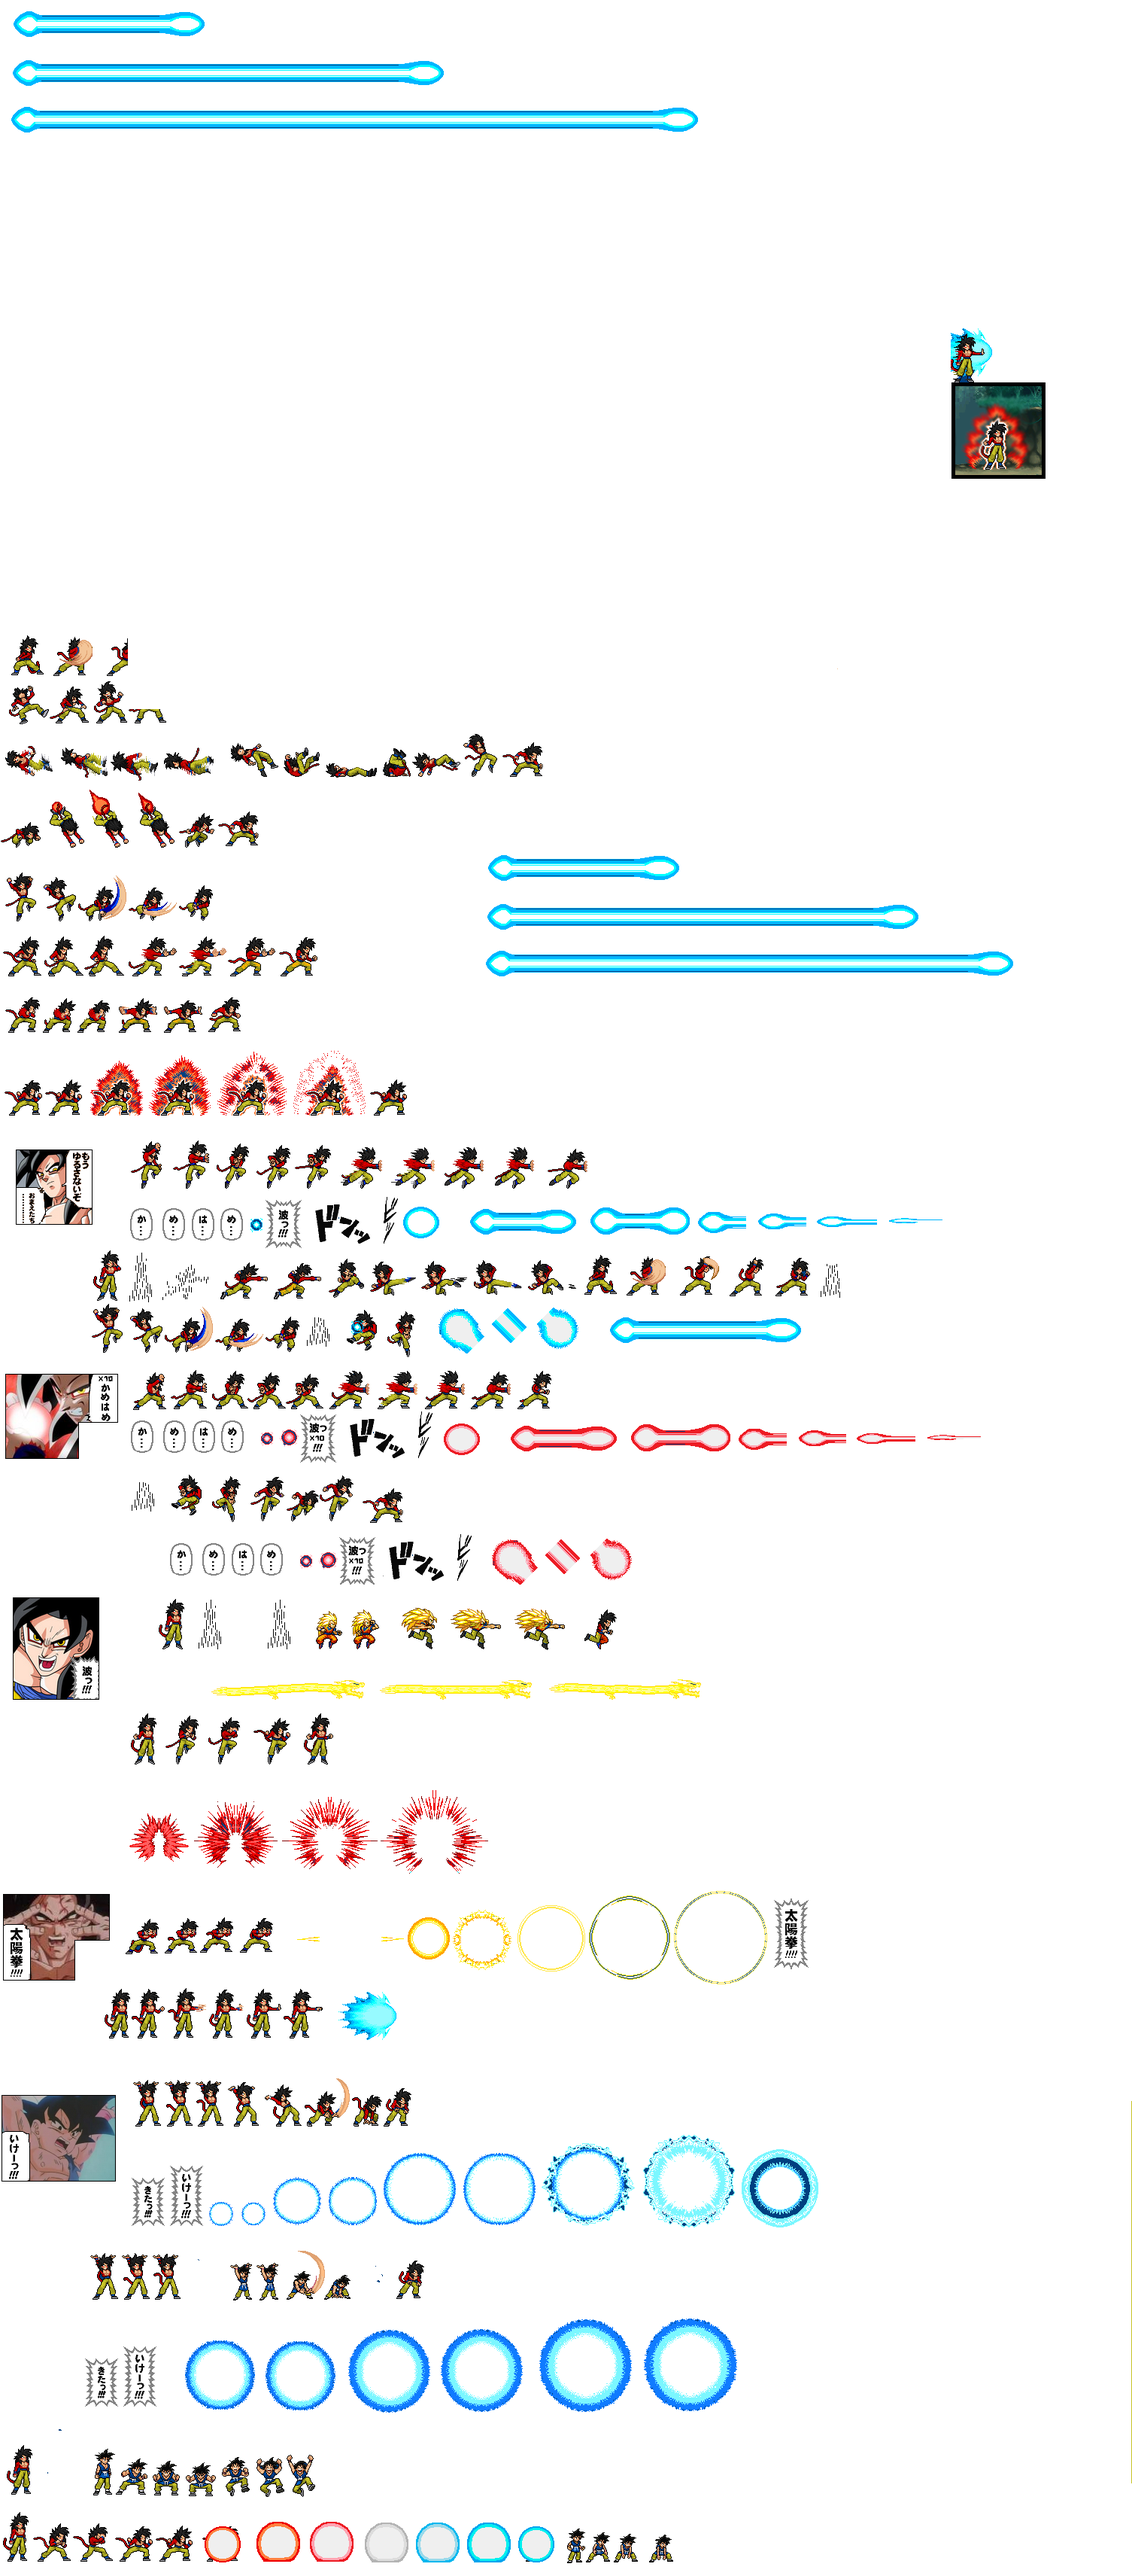
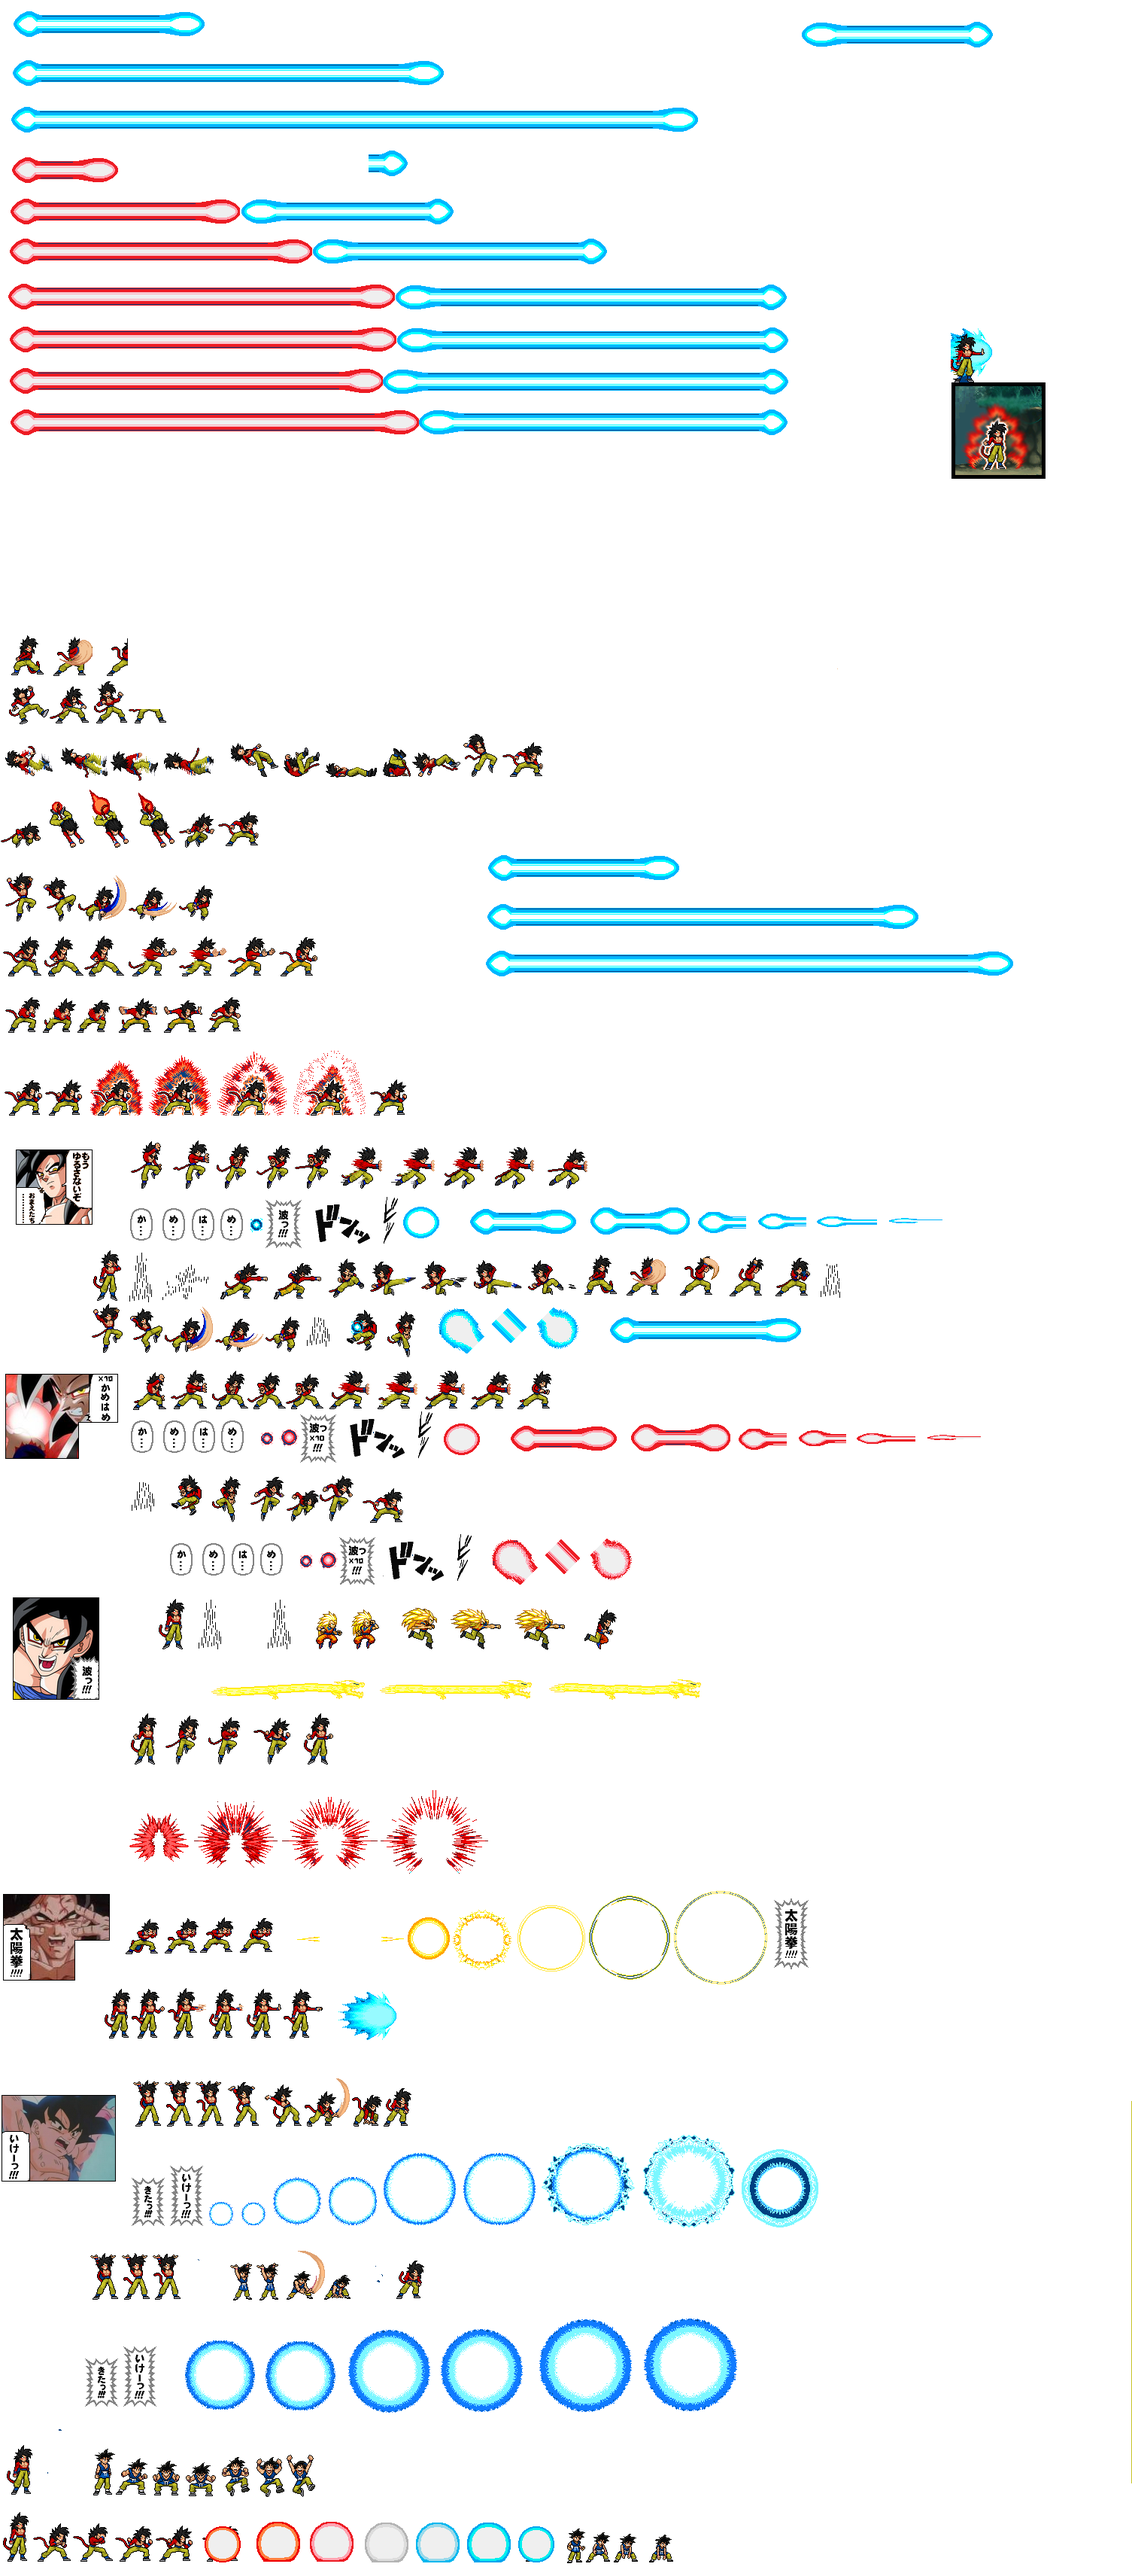
Adding teleport and kameham dispute

Changed region(s): [[0.0, 0.062, 0.687, 0.1859], [0.7183, 0.0, 0.8744, 0.031]]

diff --git a/src/player.py b/src/player.py
@@ -33,10 +33,12 @@ class Player(SpriteAnimation):
         self.hitDefended = 0.4
         self.powerDamage = 10
         self.powerDamageDefended = 2
+        self.comboDamage = 10
         self.HP = 140
         self.XP = 50
         self.playerId = playerId
         self.loading = False
+        self.powerDisputa = True
         if self.playerId == 1:
             self.k_down = K_s
             self.k_up = K_w
@@ -48,6 +50,8 @@ class Player(SpriteAnimation):
             self.k_rightArrow = K_d
             self.k_leftArrow = K_a
             self.k_combo = K_c
+            self.k_teleport = K_k
+            self.k_dis = K_x
         elif self.playerId == 2:
             self.k_down = K_DOWN
             self.k_up = K_UP
@@ -59,6 +63,8 @@ class Player(SpriteAnimation):
             self.k_rightArrow = K_RIGHT
             self.k_leftArrow = K_LEFT
             self.k_combo = K_n
+            self.k_teleport = K_KP6
+            self.k_dis = K_KP3
         self.inicio1Pc = time.time()*1000
         self.inicio2Pc = time.time()*1000
         self.inicio3Pc = time.time()*1000
@@ -156,8 +162,8 @@ class Player(SpriteAnimation):
                     self.inicio = time.time()
 
                 if event.key == self.k_combo:
-                    self.acao = "punch"
-                    self.pressed = True
+                    self.acao = "combo"
+                    #self.pressed = True
                     self.pos = 1
                     self.Attacking = True
                     self.Defending = False
@@ -170,12 +176,12 @@ class Player(SpriteAnimation):
                     for player in playerList:
                         if selfAttackRect.colliderect(player.Rect) == True:
                             if player.Defending == False:
-                                player.HP -= self.punchDamage
+                                player.HP -= self.comboDamage
                                 player.acao = "hited"
                                 player.inicio = time.time()
                             if player.Defending == True and player.Attacking == False:
                                 player.HP -= player.hitDefended
-                    self.inicio = time.time()
+                    #self.inicio = time.time()
 
                 if event.key == self.k_kick:
                     self.acao = "kick"
@@ -204,6 +210,20 @@ class Player(SpriteAnimation):
                     self.pos = 1
                     self.XP+= 5 
                     self.inicio = time.time()
+                if event.key == self.k_teleport:
+                    self.acao = "teleport"
+                    self.pressed = True
+                    self.pos = 1
+                    self.x = random.randint(0,1170)
+                    self.y = random.randint(0,738)
+                    self.inicio = time.time()
+                if event.key == self.k_dis:
+                    if self.powerDisputa == True:
+                        power1.acao = "disputa"
+                    self.acao = "disputa"
+                    #self.pressed = True
+                    self.pos = 1
+                    #self.inicio = time.time()
                     
             if event.type == KEYUP:
                 if event.key == self.k_down:
@@ -433,9 +453,38 @@ class Player(SpriteAnimation):
             self.insertFrame(170,900,80,90)
             self.buildAnimation("hited",hold=True, speed = 5)
             #Goku-Combo
-            self.insertFrame(65,900,52,90)
-            self.insertFrame(170,900,80,90)
+            self.insertFrame(119,1653,50,80)
+            self.insertFrame(167,1653,47,80)
+            self.insertFrame(114,1728,50,80)
+            self.insertFrame(168,1730,50,80)
+            self.insertFrame(217,1730,70,80)
+            self.insertFrame(284,1730,70,80)
+            self.insertFrame(349,1730,50,80)
+            self.insertFrame(402,1730,50,80)
+            #puch-combo
+            self.insertFrame(120,367,58,60)
+            self.insertFrame(180,367,58,60)
+            #player1.insertFrame(211,1674,65,60)
+            self.insertFrame(211,1674,65,60)
+            self.insertFrame(249,367,65,60)
+            #kick-combo
+            self.insertFrame(113,443,57,60)
+            self.insertFrame(166,443,60,60)
+            self.insertFrame(235,443,66,60)
+            self.insertFrame(303,443,66,60)
+            self.insertFrame(375,443,68,60)
+            self.insertFrame(448,443,68,60)
+            self.insertFrame(375,443,58,60)
+            self.insertFrame(454,1730,50,80)
             self.buildAnimation("combo",hold=True, speed = 5)
+            #Goku-Teleport
+            self.insertFrame(119,1653,50,80)
+            self.insertFrame(167,1653,47,80)
+            self.buildAnimation("teleport",hold=True, speed = 5)
+            #Goku-Disputa
+            self.insertFrame(498,1815,55,60)
+            self.insertFrame(560,1815,55,60)
+            self.buildAnimation("disputa",hold=False, speed = 5)
         if character == 'vegeta':
             self.photo3x4 = pygame.image.load("../resources/imagens/player/vegeta/vegeta-2.png")
             self.photo3x4Fliped  = pygame.transform.flip(self.photo3x4, 1,0)
@@ -482,6 +531,13 @@ class Player(SpriteAnimation):
             self.insertFrame(0,1400,48,75)
             self.insertFrame(48,1400,43,75)
             self.buildAnimation("hited",hold=True, speed = 5)
+            #Vegeta-Teleport
+            self.insertFrame(642,289,50,80)
+            self.buildAnimation("teleport",hold=True, speed = 5)
+            #Vegeta-Disputa
+            self.insertFrame(333,2012,55,60)
+            self.insertFrame(390,2012,55,60)
+            self.buildAnimation("disputa",hold=False, speed = 5)
         if character == 'trunks':
             self.photo3x4 = pygame.image.load("../resources/imagens/player/trunks/trunks3x4.png")
             self.photo3x4Fliped  = pygame.transform.flip(self.photo3x4, 1,0)
@@ -533,6 +589,11 @@ class Player(SpriteAnimation):
         power.insertFrame(0,132,1100,50) #Full Power
         power.insertFrame(1300,1604,146,40) #void
         power.buildAnimation("kame",hold=True, speed = 10)
+        power.insertFrame(10,370,1200,50) #void
+        power.insertFrame(10,480,1200,50) #void
+        power.insertFrame(10,370,1200,50) #void
+        power.insertFrame(10,540,1200,50) #void
+        power.buildAnimation("disputa",hold=False, speed = 10)
     
     def playPC(self, enemyPlayer, power2,screen):
         """

diff --git a/src/main.py b/src/main.py
@@ -22,8 +22,8 @@ ch = pygame.transform.scale(photos3x4[0], (100,100))
 background = pygame.image.load(scenery4)
 resolution = background.get_size()
 width, height = resolution
-#screen = pygame.display.set_mode(resolution, pygame.FULLSCREEN, 32)
-screen = pygame.display.set_mode(resolution)
+screen = pygame.display.set_mode(resolution, pygame.FULLSCREEN, 32)
+#screen = pygame.display.set_mode(resolution)
 background.convert()
 background_openning = pygame.image.load(menu_image).convert()
 scene1 = pygame.transform.scale(scenery[0], (500,300))
@@ -86,6 +86,7 @@ playerPC3.loadCharacter(characters[1])
 player2.loadCharacter(characters[2])
 PCPlayers = [playerPC,playerPC2,playerPC3]
 humanPlayers = [player1,player2]
+player2.powerDisputa = False
 
 delta = 13 #Velocidade do movimento, quanto maior mais rapido
 player2.facingRight = False
